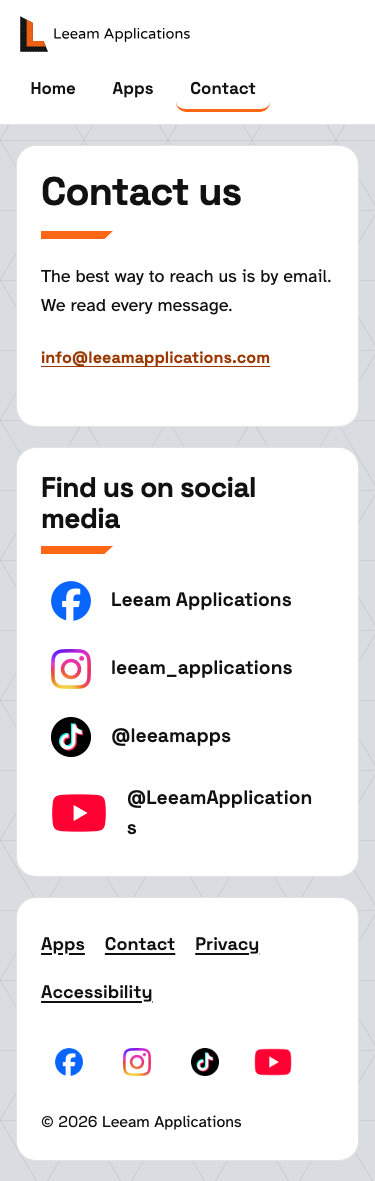
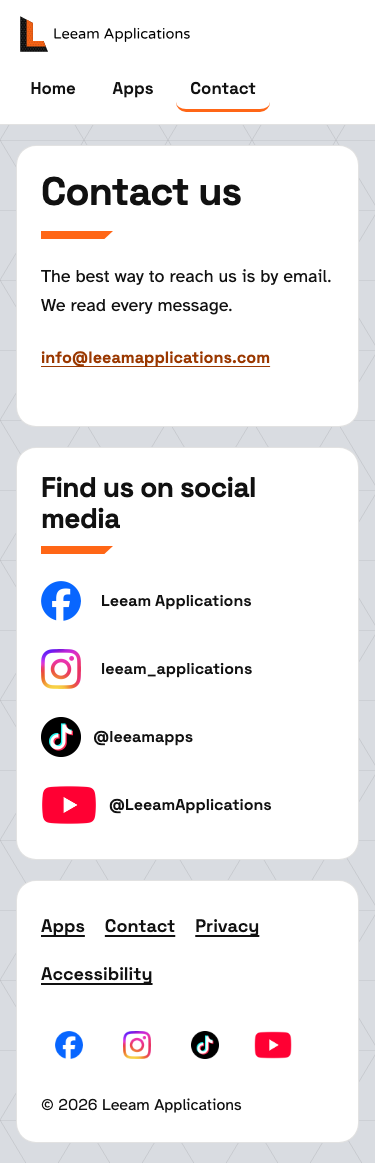
prompt 07: color-scheme only light meta, and keep contact account names on one line on small phones

diff --git a/styles.css b/styles.css
@@ -619,6 +619,26 @@ main .wrap > * + * {
   overflow-wrap: anywhere;
 }
 
+/* Small phones, narrower than 390 pixels (prompt 07, 15 October 2026): the YouTube logo is 56 pixels wide, so at
+   full size the account names would wrap and, being single words, break in the middle. Measured at 320 pixels
+   the list is 238 pixels wide and "@LeeamApplications" is 163 pixels at 1rem, so the names drop to 1rem (never
+   smaller), the row's side padding goes, and the logo-to-name gap is 12 pixels on the YouTube and TikTok rows.
+   The Facebook and Instagram rows keep the 20 pixel gap (half the logo's width) that Meta's rules ask for.
+   Rows stay at least 60 pixels tall, so tap targets are unchanged. */
+@media (max-width: 389px) {
+  .social-list.large a {
+    font-size: 1rem;
+    gap: 0.75rem;
+    padding-left: 0;
+    padding-right: 0;
+  }
+
+  .social-list.large a[aria-label*="Facebook"],
+  .social-list.large a[aria-label*="Instagram"] {
+    gap: 1.25rem;
+  }
+}
+
 /* Footer: a white panel so no text sits on the mesh */
 .site-footer {
   padding-bottom: clamp(1.25rem, 3vw, 2.5rem);

diff --git a/index.html b/index.html
@@ -21,7 +21,7 @@
   <meta name="twitter:description" content="An independent app studio from Northamptonshire, UK, building simple, helpful apps designed from day one for blind and visually impaired people and made for all.">
   <meta name="twitter:image" content="https://leeamapplications.com/og-image.png">
   <meta name="theme-color" content="#FFFFFF">
-  <meta name="color-scheme" content="light">
+  <meta name="color-scheme" content="only light">
   <link rel="icon" href="favicon.ico" sizes="any">
   <link rel="icon" href="favicon.svg" type="image/svg+xml">
   <link rel="apple-touch-icon" href="apple-touch-icon.png">

diff --git a/apps.html b/apps.html
@@ -21,7 +21,7 @@
   <meta name="twitter:description" content="The apps made by Leeam Applications, starting with RYX, an AI voice calendar and tasks app for iPhone and Android that works with VoiceOver and TalkBack.">
   <meta name="twitter:image" content="https://leeamapplications.com/og-image.png">
   <meta name="theme-color" content="#FFFFFF">
-  <meta name="color-scheme" content="light">
+  <meta name="color-scheme" content="only light">
   <link rel="icon" href="favicon.ico" sizes="any">
   <link rel="icon" href="favicon.svg" type="image/svg+xml">
   <link rel="apple-touch-icon" href="apple-touch-icon.png">

diff --git a/accessibility.html b/accessibility.html
@@ -21,7 +21,7 @@
   <meta name="twitter:description" content="The accessibility statement for the Leeam Applications website: built and tested with a screen reader from day one, and aiming for WCAG 2.2 level AA.">
   <meta name="twitter:image" content="https://leeamapplications.com/og-image.png">
   <meta name="theme-color" content="#FFFFFF">
-  <meta name="color-scheme" content="light">
+  <meta name="color-scheme" content="only light">
   <link rel="icon" href="favicon.ico" sizes="any">
   <link rel="icon" href="favicon.svg" type="image/svg+xml">
   <link rel="apple-touch-icon" href="apple-touch-icon.png">

diff --git a/privacy.html b/privacy.html
@@ -21,7 +21,7 @@
   <meta name="twitter:description" content="How the Leeam Applications website handles your information: no cookies, no analytics, no trackers, and your email used only to reply to you.">
   <meta name="twitter:image" content="https://leeamapplications.com/og-image.png">
   <meta name="theme-color" content="#FFFFFF">
-  <meta name="color-scheme" content="light">
+  <meta name="color-scheme" content="only light">
   <link rel="icon" href="favicon.ico" sizes="any">
   <link rel="icon" href="favicon.svg" type="image/svg+xml">
   <link rel="apple-touch-icon" href="apple-touch-icon.png">

diff --git a/contact.html b/contact.html
@@ -21,7 +21,7 @@
   <meta name="twitter:description" content="Get in touch with Leeam Applications by email at info@leeamapplications.com, or find us on Facebook, Instagram, TikTok and YouTube.">
   <meta name="twitter:image" content="https://leeamapplications.com/og-image.png">
   <meta name="theme-color" content="#FFFFFF">
-  <meta name="color-scheme" content="light">
+  <meta name="color-scheme" content="only light">
   <link rel="icon" href="favicon.ico" sizes="any">
   <link rel="icon" href="favicon.svg" type="image/svg+xml">
   <link rel="apple-touch-icon" href="apple-touch-icon.png">

diff --git a/404.html b/404.html
@@ -22,7 +22,7 @@
   <meta name="twitter:description" content="That page could not be found on the Leeam Applications website.">
   <meta name="twitter:image" content="https://leeamapplications.com/og-image.png">
   <meta name="theme-color" content="#FFFFFF">
-  <meta name="color-scheme" content="light">
+  <meta name="color-scheme" content="only light">
   <link rel="icon" href="/favicon.ico" sizes="any">
   <link rel="icon" href="/favicon.svg" type="image/svg+xml">
   <link rel="apple-touch-icon" href="/apple-touch-icon.png">
